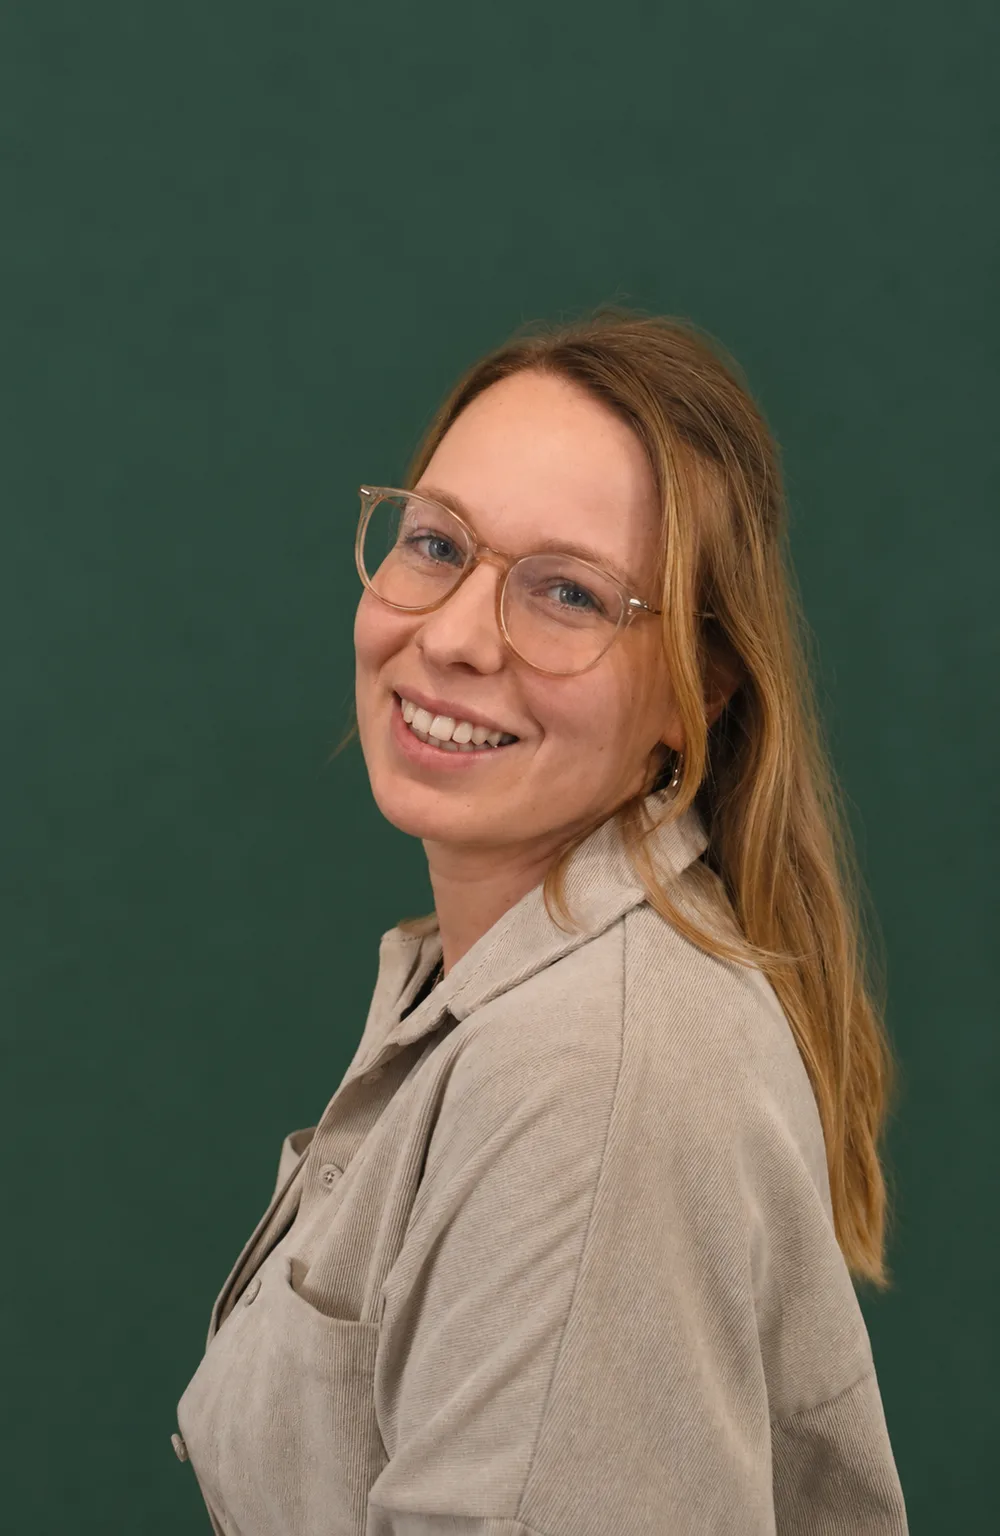
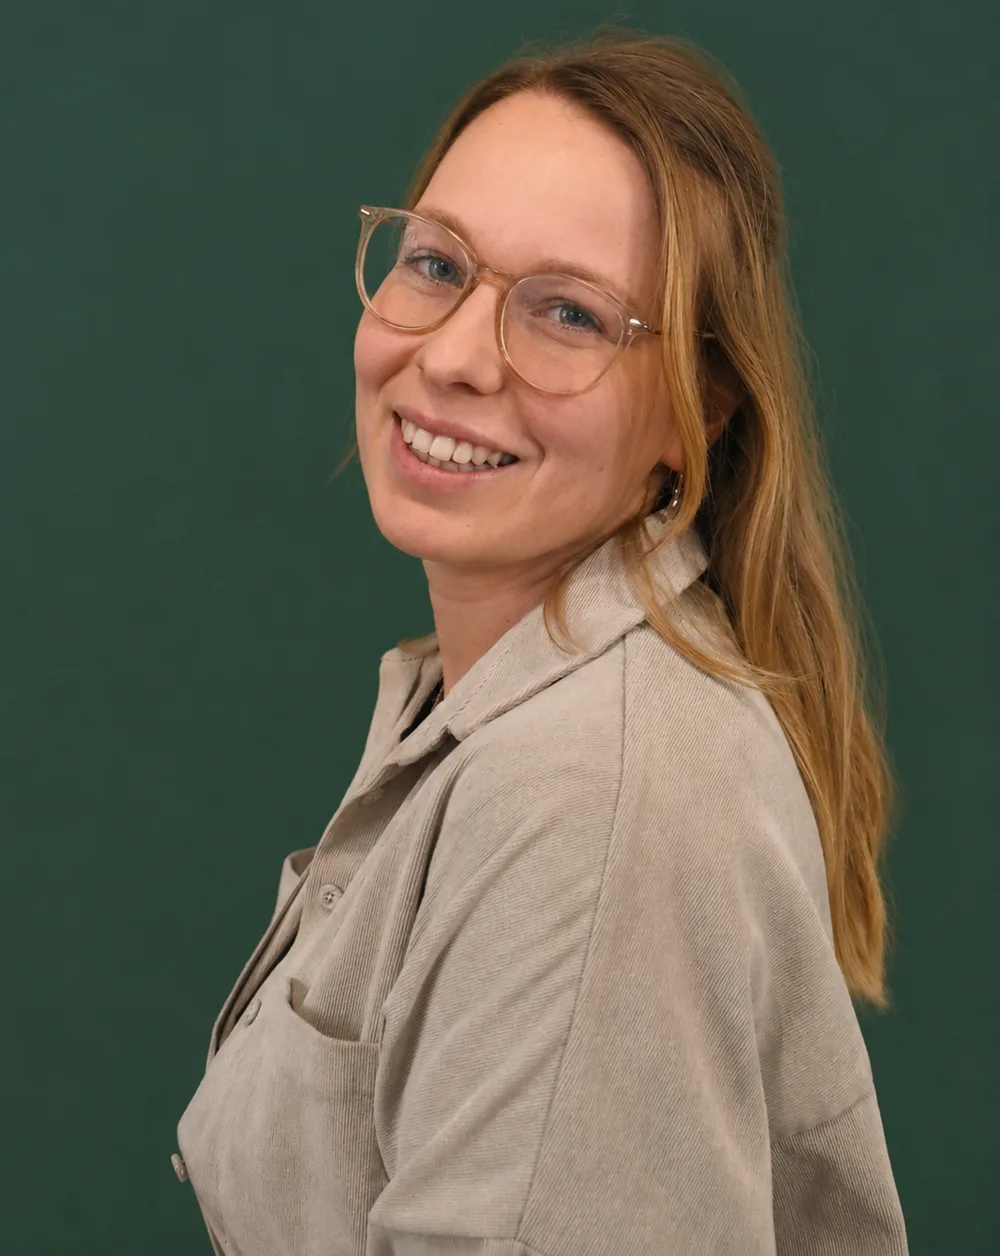
Google Ads Landingpage: Über-mich-Bild, FAQ, Footer
- Über-mich-Foto enger beschnitten (weniger grüner Rand über dem Kopf),
  neu als 79 KB WebP exportiert, object-position auf center
- Neue FAQ "Wie funktioniert Google Ads?" (mit Kurzerklärung)
- Neue FAQ "Was ist eine Ads-Analyse?" (Mehrwert, unverbindlich)
- Unter der FAQ jetzt beide CTAs (Kennenlerncall + Ads-Analyse)
- Mini-Footer in Dunkelgrün (#16291F)

Changed region(s): [[0.155, 0.0311, 0.899, 0.9936]]

diff --git a/google-ads/index.html b/google-ads/index.html
@@ -567,7 +567,7 @@
     <div style="max-width:1180px; margin:0 auto; padding:0 clamp(1.25rem,4vw,2.5rem); display:grid; grid-template-columns:repeat(auto-fit,minmax(280px,1fr)); gap:clamp(2rem,5vw,4rem); align-items:center">
       <div style="max-width:340px; width:100%; position:relative">
         <div style="width:100%; aspect-ratio:3/4; border-radius:20px; overflow:hidden">
-          <img src="../images/nina-ueber-mich.webp" alt="Nina Zurawski — Google Ads Spezialistin" width="1000" height="1535" loading="lazy" style="width:100%; height:100%; object-fit:cover; object-position:center 18%; display:block">
+          <img src="../images/nina-ueber-mich.webp" alt="Nina Zurawski — Google Ads Spezialistin" width="1000" height="1256" loading="lazy" style="width:100%; height:100%; object-fit:cover; object-position:center; display:block">
         </div>
         <img src="../images/google-ads-badge.png" alt="Google Ads Search Certified" loading="lazy" style="position:absolute; right:-14px; bottom:-14px; width:104px; height:104px; border-radius:50%; object-fit:cover; background:#fff; padding:4px; box-shadow:0 12px 30px -14px rgba(22,33,27,0.4)">
       </div>
@@ -603,6 +603,15 @@
       </div>
 
       <div style="margin-top:3rem; border-top:1px solid #EEEAE2">
+        <div class="faq-item" style="border-bottom:1px solid #EEEAE2">
+          <button type="button" class="faq-q" aria-expanded="false" style="width:100%; display:flex; justify-content:space-between; align-items:center; gap:1rem; padding:1.35rem 0; background:none; border:none; cursor:pointer; font-size:1.02rem; color:#16211B; text-align:left; font-weight:500; font-family:'DM Sans',sans-serif">
+            Wie funktioniert Google Ads?
+            <svg class="faq-chevron" viewBox="0 0 16 16" fill="none" width="18" height="18" style="flex-shrink:0; color:#1E3A2C; transition:transform .25s; transform:rotate(0deg)"><path d="M8 3v10M3 8h10" stroke="currentColor" stroke-width="1.5" stroke-linecap="round"></path></svg>
+          </button>
+          <div class="faq-a" style="max-height:0; opacity:0">
+            <p style="font-size:0.96rem; line-height:1.78; color:#55625A; padding-bottom:1.35rem; text-wrap:pretty">Du schaltest Anzeigen, die genau dann erscheinen, wenn jemand bei Google aktiv nach deiner Leistung sucht — ganz oben, noch vor den normalen Suchergebnissen. Du bestimmst die Suchbegriffe, die Region und dein Budget und zahlst nur, wenn jemand tatsächlich auf deine Anzeige klickt. Über Conversion-Tracking wird sichtbar, welche Anzeigen Anfragen bringen — so fließt das Budget nach und nach in das, was wirklich funktioniert.</p>
+          </div>
+        </div>
         <div class="faq-item" style="border-bottom:1px solid #EEEAE2">
           <button type="button" class="faq-q" aria-expanded="false" style="width:100%; display:flex; justify-content:space-between; align-items:center; gap:1rem; padding:1.35rem 0; background:none; border:none; cursor:pointer; font-size:1.02rem; color:#16211B; text-align:left; font-weight:500; font-family:'DM Sans',sans-serif">
             Für wen lohnen sich Google Ads?
@@ -641,6 +650,15 @@
         </div>
         <div class="faq-item" style="border-bottom:1px solid #EEEAE2">
           <button type="button" class="faq-q" aria-expanded="false" style="width:100%; display:flex; justify-content:space-between; align-items:center; gap:1rem; padding:1.35rem 0; background:none; border:none; cursor:pointer; font-size:1.02rem; color:#16211B; text-align:left; font-weight:500; font-family:'DM Sans',sans-serif">
+            Was ist eine Ads-Analyse?
+            <svg class="faq-chevron" viewBox="0 0 16 16" fill="none" width="18" height="18" style="flex-shrink:0; color:#1E3A2C; transition:transform .25s; transform:rotate(0deg)"><path d="M8 3v10M3 8h10" stroke="currentColor" stroke-width="1.5" stroke-linecap="round"></path></svg>
+          </button>
+          <div class="faq-a" style="max-height:0; opacity:0">
+            <p style="font-size:0.96rem; line-height:1.78; color:#55625A; padding-bottom:1.35rem; text-wrap:pretty">Ich schaue in dein bestehendes Google Ads Konto und gebe dir konkrete Tipps, wie du mehr aus deinen Anzeigen und deinem Werbebudget herausholst — zum Beispiel bei Struktur, Keywords, Anzeigentexten oder Tracking. Reiner Mehrwert und völlig unverbindlich: Du kannst die Empfehlungen selbst umsetzen oder die Betreuung an mich übergeben.</p>
+          </div>
+        </div>
+        <div class="faq-item" style="border-bottom:1px solid #EEEAE2">
+          <button type="button" class="faq-q" aria-expanded="false" style="width:100%; display:flex; justify-content:space-between; align-items:center; gap:1rem; padding:1.35rem 0; background:none; border:none; cursor:pointer; font-size:1.02rem; color:#16211B; text-align:left; font-weight:500; font-family:'DM Sans',sans-serif">
             Arbeitest du auch mit Kund:innen außerhalb der Region?
             <svg class="faq-chevron" viewBox="0 0 16 16" fill="none" width="18" height="18" style="flex-shrink:0; color:#1E3A2C; transition:transform .25s; transform:rotate(0deg)"><path d="M8 3v10M3 8h10" stroke="currentColor" stroke-width="1.5" stroke-linecap="round"></path></svg>
           </button>
@@ -670,7 +688,13 @@
 
       <div style="text-align:center; margin-top:3rem">
         <p style="font-size:1rem; line-height:1.75; color:#55625A; text-wrap:pretty">Noch offene Fragen?<br>Buche gerne ein Gespräch oder schreibe eine Mail an <a href="mailto:info@nina-zurawski.de" class="h-link" style="color:#1E3A2C; border-bottom:1px solid #C9D3CA">info@nina-zurawski.de</a></p>
-        <a href="https://meet.brevo.com/nina-zurawski/kennenlerncall" target="_blank" rel="noopener" class="h-btn-dark" style="display:inline-flex; align-items:center; gap:0.5rem; margin-top:1.5rem; background:#1E3A2C; color:#fff; border-radius:100px; padding:0.85rem 1.6rem; font-size:0.92rem">Kennenlerncall buchen</a>
+        <div style="display:flex; flex-wrap:wrap; justify-content:center; gap:0.9rem; margin-top:1.5rem">
+          <a href="https://meet.brevo.com/nina-zurawski/kennenlerncall" target="_blank" rel="noopener" class="h-btn-dark" style="display:inline-flex; align-items:center; gap:0.5rem; background:#1E3A2C; color:#fff; border-radius:100px; padding:0.85rem 1.6rem; font-size:0.92rem">Kennenlerncall buchen</a>
+          <a href="https://meet.brevo.com/nina-zurawski/ads-analyse" target="_blank" rel="noopener" class="h-btn-ghost" style="display:inline-flex; align-items:center; gap:0.45rem; color:#1E3A2C; border:1px solid #C9D3CA; border-radius:100px; padding:0.85rem 1.6rem; font-size:0.92rem">
+            <span>Ads-Analyse buchen</span>
+            <svg width="13" height="13" viewBox="0 0 16 16" fill="none"><path d="M3 8H13M13 8L9 4M13 8L9 12" stroke="currentColor" stroke-width="1.6" stroke-linecap="round"></path></svg>
+          </a>
+        </div>
       </div>
     </div>
   </section>
@@ -692,15 +716,12 @@
     </div>
   </section>
 
-  <footer style="background:#FFFFFF; border-top:1px solid #EEEAE2; padding:1.8rem 0">
+  <footer style="background:#16291F; border-top:1px solid rgba(255,255,255,0.12); padding:1.8rem 0">
     <div style="max-width:1180px; margin:0 auto; padding:0 clamp(1.25rem,4vw,2.5rem); display:flex; flex-wrap:wrap; align-items:center; justify-content:space-between; gap:1rem">
-      <div style="display:flex; align-items:center; gap:0.6rem">
-        <img src="../images/logo-nina.png" alt="Nina Zurawski Logo" style="width:30px; height:30px; border-radius:50%; object-fit:contain; display:block">
-        <span style="font-family:'Playfair Display',serif; font-size:1.05rem">Nina Zurawski</span>
-      </div>
+      <span style="font-family:'Playfair Display',serif; font-size:1.05rem; color:#fff">Nina Zurawski</span>
       <div style="display:flex; gap:1.5rem">
-        <a href="../impressum.html" style="font-size:0.78rem; letter-spacing:0.08em; color:#8C978F">Impressum</a>
-        <a href="../datenschutz.html" style="font-size:0.78rem; letter-spacing:0.08em; color:#8C978F">Datenschutz</a>
+        <a href="../impressum.html" style="font-size:0.78rem; letter-spacing:0.08em; color:rgba(255,255,255,0.6)">Impressum</a>
+        <a href="../datenschutz.html" style="font-size:0.78rem; letter-spacing:0.08em; color:rgba(255,255,255,0.6)">Datenschutz</a>
       </div>
     </div>
   </footer>
